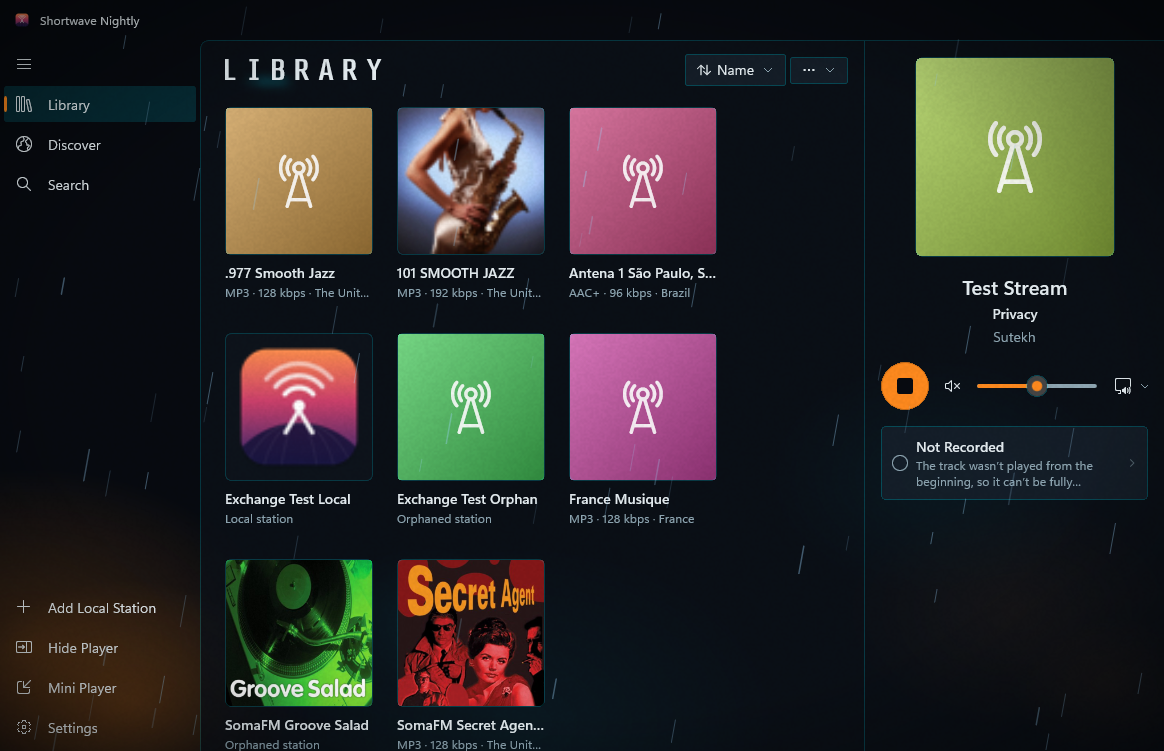
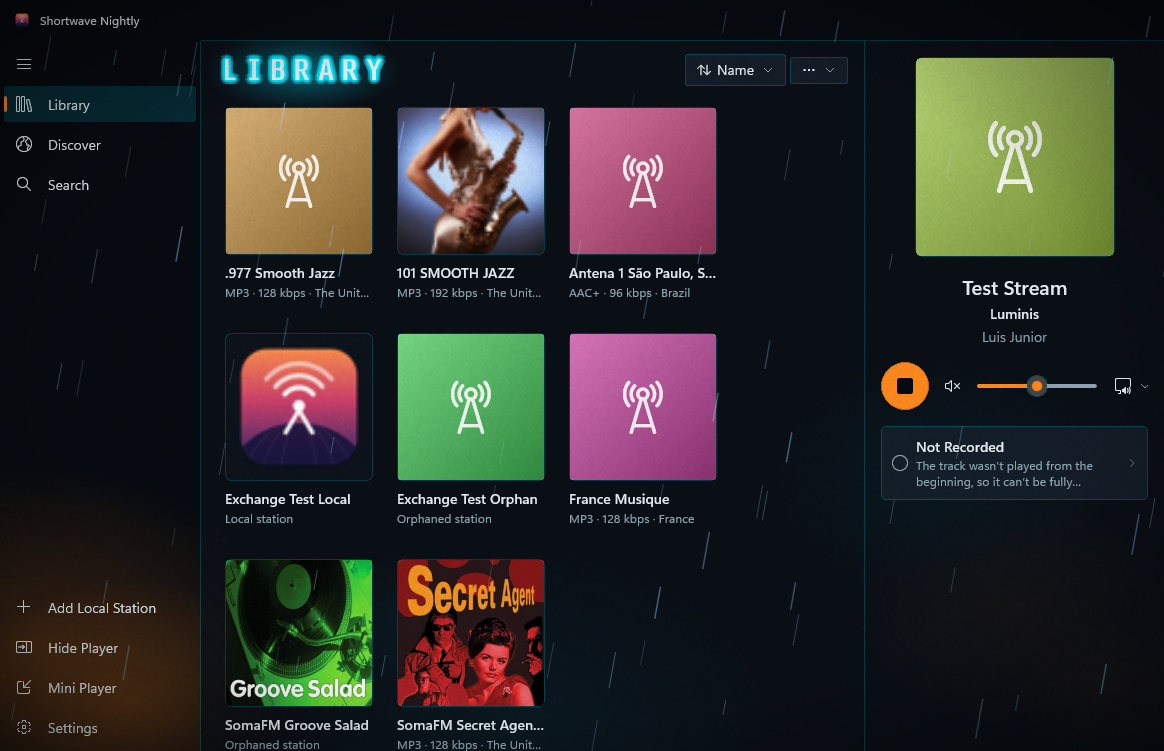
Themes: title glows and shadows drawn in XAML, placed correctly
The on-screen check showed the composition glow (masked by the text) as a
blob under the title. Glows are now a halo plus copies of the text; hard
shadows and the Retro 64 cursor were also 24/12 px off, measured before
their host was laid out. Renders and docs updated; Frosted Glass captured
on the real screen.

Changed region(s): [[0.1856, 0.0306, 0.3402, 0.1531], [0.8351, 0.3981, 0.8969, 0.4594]]

diff --git a/windows/src/Shortwave/Theming/TitleDecor.cs b/windows/src/Shortwave/Theming/TitleDecor.cs
@@ -1,4 +1,3 @@
-using System.Numerics;
 using System.Runtime.CompilerServices;
 using Microsoft.UI.Composition;
 using Microsoft.UI.Xaml;
@@ -11,8 +10,10 @@ using Windows.UI;
 namespace Shortwave.Theming;
 
 /// <summary>
-/// Page title treatments: upper case, a glow or hard shadow (a composition drop shadow masked by the text), and
-/// a blinking block cursor. Applied to every TextBlock that uses PageTitleStyle.
+/// Page title treatments: upper case, a neon glow or a hard shadow, and a blinking block cursor. Applied to every
+/// TextBlock that uses PageTitleStyle. Glow and shadow are plain XAML (copies of the text in the glow colour and a
+/// soft halo), so they look the same on screen and in -screenshot renders. A composition drop shadow masked by the
+/// text (GetAlphaMask) came out as a small blob under the title, on screen too.
 /// </summary>
 public sealed class TitleDecor
 {
@@ -20,8 +21,10 @@ public sealed class TitleDecor
     {
         public required TextBlock Title;
         public required Canvas Host;
-        public SpriteVisual? Glow;
-        public DropShadow? Shadow;
+        /// <summary>Neon glow: a halo and a ring of faint copies of the text.</summary>
+        public Canvas? Glow;
+        public Ellipse? Halo;
+        public readonly List<(TextBlock Text, double Dx, double Dy)> Ring = [];
         public Rectangle? Cursor;
         /// <summary>A hard shadow (blur 0): an offset copy of the title, drawn with plain XAML.</summary>
         public TextBlock? Copy;
@@ -32,12 +35,12 @@ public sealed class TitleDecor
 
         public void Tick(double t, double dt)
         {
-            if (Shadow != null && FlickerOn)
+            if (Glow != null && FlickerOn)
             {
                 // A tired neon tube: steady, with rare stutters.
                 double v = BaseOpacity;
                 if (dt > 0 && (t % 9.3 < 0.25 || t % 13.7 < 0.12)) v *= Random.Shared.NextDouble() < 0.5 ? 0.25 : 0.9;
-                Shadow.Opacity = (float)v;
+                Glow.Opacity = v;
             }
         }
     }
@@ -64,7 +67,6 @@ public sealed class TitleDecor
         foreach (var a in attached)
         {
             EffectsClock.Remove(a);
-            ElementCompositionPreview.SetElementChildVisual(a.Host, null);
             (a.Host.Parent as Panel)?.Children.Remove(a.Host);
         }
         attached.Clear();
@@ -95,7 +97,9 @@ public sealed class TitleDecor
         bool glow = theme.Has("titleShadow"), cursor = theme.Has("cursor");
         if (!glow && !cursor) return;
 
-        var host = new Canvas { IsHitTestVisible = false, HorizontalAlignment = HorizontalAlignment.Left, VerticalAlignment = VerticalAlignment.Top };
+        // The host covers the title's cell. Positions are measured again once it has been laid out: measured before,
+        // they put every glow, shadow and cursor 24 px right and 12 px down.
+        var host = new Canvas { IsHitTestVisible = false, HorizontalAlignment = HorizontalAlignment.Stretch, VerticalAlignment = VerticalAlignment.Stretch };
         Grid.SetRow(host, Grid.GetRow(title));
         Grid.SetColumn(host, Grid.GetColumn(title));
         panel.Children.Insert(0, host);   // behind the text
@@ -118,17 +122,41 @@ public sealed class TitleDecor
         if (glow)
         {
             var o = shadowOptions;
-            var compositor = ElementCompositionPreview.GetElementVisual(title).Compositor;
-            a.Shadow = compositor.CreateDropShadow();
-            a.Shadow.Color = WindowEffects.Opt(o, "color", Microsoft.UI.Colors.White);
-            a.Shadow.BlurRadius = (float)WindowEffects.Opt(o, "blur", 12);
-            a.Shadow.Offset = new Vector3((float)WindowEffects.Opt(o, "offsetX", 0), (float)WindowEffects.Opt(o, "offsetY", 0), 0);
+            var color = WindowEffects.Opt(o, "color", Microsoft.UI.Colors.White);
+            double blur = WindowEffects.Opt(o, "blur", 12);
+            a.Ox = WindowEffects.Opt(o, "offsetX", 0);
+            a.Oy = WindowEffects.Opt(o, "offsetY", 0);
             a.BaseOpacity = Math.Clamp(WindowEffects.Opt(o, "opacity", 1) * (0.4 + 0.6 * intensity), 0, 1);
-            a.Shadow.Opacity = (float)a.BaseOpacity;
             a.FlickerOn = o["flicker"] is System.Text.Json.Nodes.JsonValue f && f.TryGetValue(out bool fl) && fl;
-            a.Glow = compositor.CreateSpriteVisual();
-            a.Glow.Shadow = a.Shadow;
-            ElementCompositionPreview.SetElementChildVisual(host, a.Glow);
+            a.Glow = new Canvas { Opacity = a.BaseOpacity };
+            // A soft halo behind the word...
+            a.Halo = new Ellipse
+            {
+                Fill = new RadialGradientBrush
+                {
+                    GradientStops =
+                    {
+                        new GradientStop { Color = WindowEffects.A(color, 0.42), Offset = 0 },
+                        new GradientStop { Color = WindowEffects.A(color, 0.16), Offset = 0.55 },
+                        new GradientStop { Color = WindowEffects.A(color, 0), Offset = 1 },
+                    },
+                },
+            };
+            a.Glow.Children.Add(a.Halo);
+            // ...and the letters themselves bleeding light: faint copies in two rings around them.
+            foreach (var (radius, alpha) in new[] { (blur * 0.32, 0.30), (blur * 0.16, 0.45) })
+                for (int k = 0; k < 12; k++)
+                {
+                    double angle = k * Math.PI / 6;
+                    var copy = new TextBlock
+                    {
+                        Style = title.Style, Tag = ShadowTag, Text = title.Text, TextWrapping = TextWrapping.NoWrap,
+                        Foreground = new SolidColorBrush(color), Opacity = alpha,
+                    };
+                    a.Glow.Children.Add(copy);
+                    a.Ring.Add((copy, radius * Math.Cos(angle), radius * Math.Sin(angle)));
+                }
+            host.Children.Add(a.Glow);
         }
         if (cursor)
         {
@@ -151,6 +179,7 @@ public sealed class TitleDecor
             }
         }
         title.SizeChanged += (_, _) => Layout(a);
+        host.SizeChanged += (_, _) => Layout(a);   // the first measurement comes before the host is laid out
         title.Loaded += (_, _) => Layout(a);
         Layout(a);
         attached.Add(a);
@@ -162,11 +191,21 @@ public sealed class TitleDecor
         if (a.Title.ActualWidth < 1 || a.Host.XamlRoot is null) return;
         Windows.Foundation.Point at;
         try { at = a.Title.TransformToVisual(a.Host).TransformPoint(new Windows.Foundation.Point(0, 0)); } catch { return; }
-        if (a.Glow != null && a.Shadow != null)
+        if (a.Glow != null)
         {
-            a.Glow.Size = new Vector2((float)a.Title.ActualWidth, (float)a.Title.ActualHeight);
-            a.Glow.Offset = new Vector3((float)at.X, (float)at.Y, 0);
-            a.Shadow.Mask = a.Title.GetAlphaMask();
+            double w = a.Title.ActualWidth, h = a.Title.ActualHeight;
+            if (a.Halo != null)
+            {
+                a.Halo.Width = w * 1.25; a.Halo.Height = h * 2.4;
+                Canvas.SetLeft(a.Halo, at.X + a.Ox + (w - a.Halo.Width) / 2);
+                Canvas.SetTop(a.Halo, at.Y + a.Oy + (h - a.Halo.Height) / 2);
+            }
+            foreach (var (text, dx, dy) in a.Ring)
+            {
+                text.Text = a.Title.Text;
+                Canvas.SetLeft(text, at.X + a.Ox + dx);
+                Canvas.SetTop(text, at.Y + a.Oy + dy);
+            }
         }
         if (a.Copy != null)
         {

diff --git a/docs/THEMES.md b/docs/THEMES.md
@@ -116,9 +116,15 @@ are used.
 - **Renders:** every theme across Library, Settings, a dialog, the playing player, Discover and the
   mini player (`windows/scripts/screenshots.ps1 -Theme <id>`). The committed ones are in
   `docs/design/windows/themes/`.
-  - The render hook can't draw text-masked glows (Retrowave, Neon Noir), so those titles show a small
-    blob there.
-  - Nor can it draw acrylic, so open menus look see-through in renders, Default included.
+  - The render hook can't draw acrylic, so open menus look see-through in renders, Default included.
+- **On the real screen** (Josh's go-ahead, 2026-11-18): Retrowave, Neon Noir and Frosted Glass were
+  captured. The rain falls, the synthwave scene draws, and Frosted Glass is see-through acrylic
+  (`docs/design/windows/screen-frosted-glass.png`).
+  - The captures caught a bug: the title glows (then a composition shadow masked by the text) showed
+    as a blob under the title.
+  - The glows are now plain XAML: a halo and copies of the text. So the renders show them exactly as
+    the screen does. The same fix corrected the hard shadows and the Retro 64 cursor, which were
+    24 px right and 12 px down.
 - **Live runs:** each theme ran 20 s with a stream playing, with no effect errors. CPU while visible,
   in percent of one core:
 
@@ -142,8 +148,9 @@ are used.
   playing) were all checked through UI Automation. So were making a copy, renaming it (saved to the
   same file), deleting it, and a theme file with a hostile id (`..\library`), which loads under a
   safe id and can only touch its own file.
-- **Not checked yet, on the real screen:** the glows, the acrylic window and menus, and the effects
-  actually moving. The restart's wait-for-the-old-copy step, in a normal (non-test) run.
+- **Not checked yet:**
+  - the acrylic menus on the real screen;
+  - the restart's wait for the old copy to exit, in a normal (non-test) run.
 
 ## Applying a theme (Windows)
 
